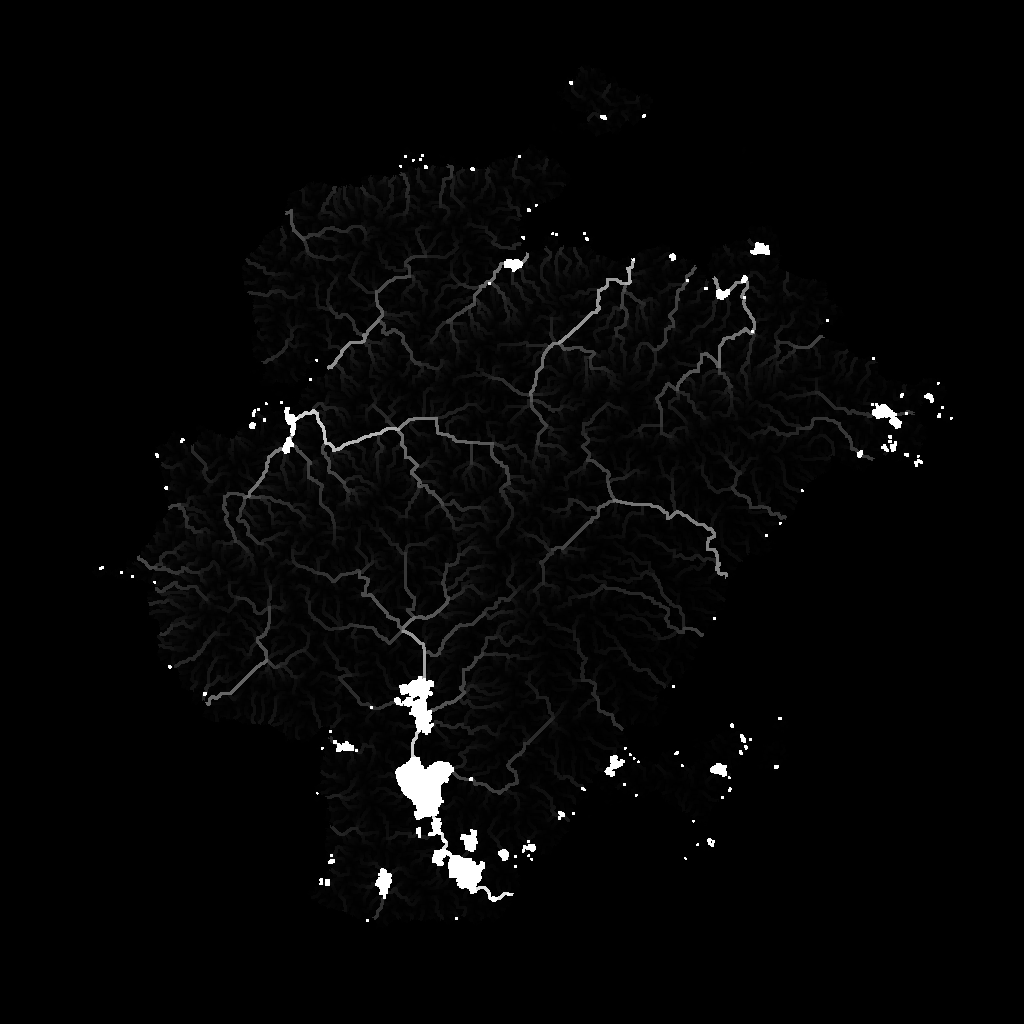
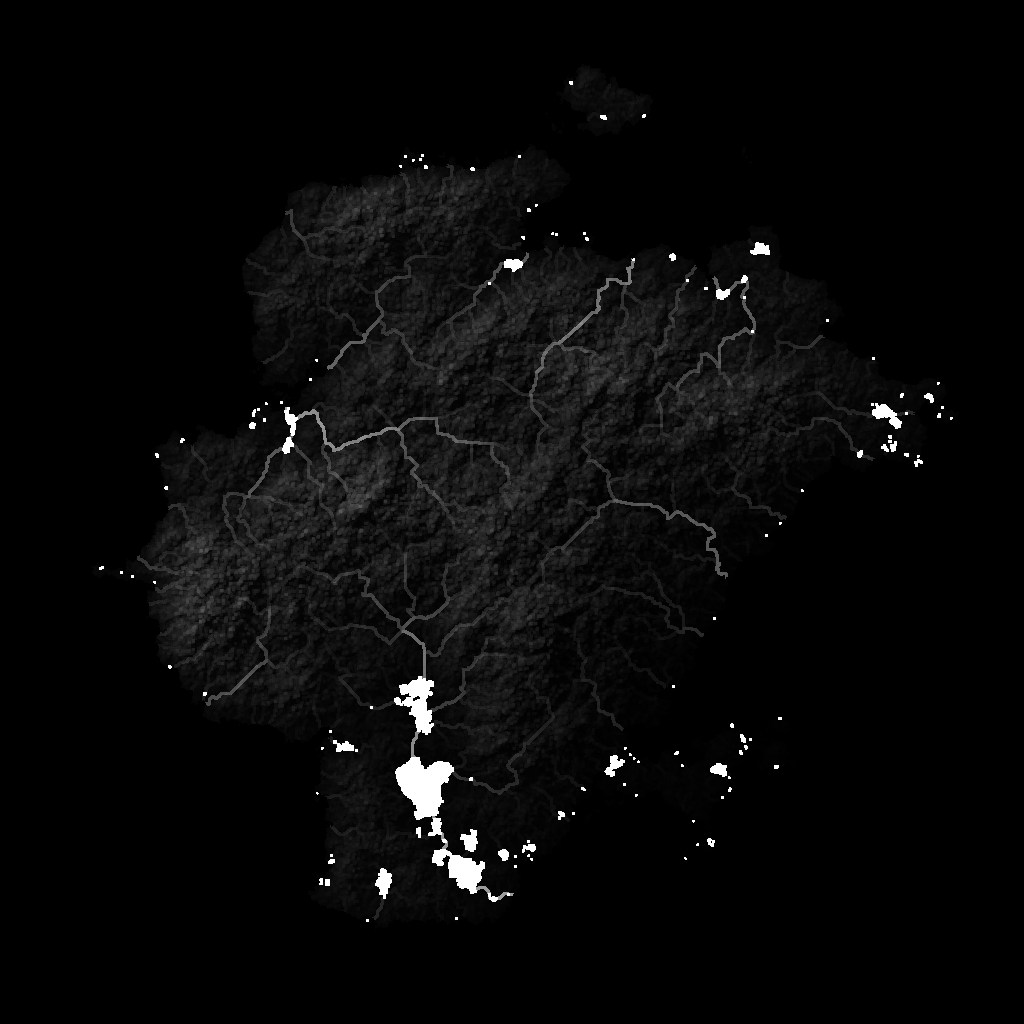
Improve watermap

diff --git a/src/map.rs b/src/map.rs
@@ -90,6 +90,8 @@ pub struct ProvBuilder {
     rain_wind: (f64, f64),
     rain_height: f64,
     rain_fall: f64,
+    water_river: f64,
+    water_rain: f64,
 }
 
 fn get_dist(i: usize, ii: usize, size: usize) -> f64 {
@@ -106,6 +108,7 @@ impl ProvBuilder {
         size: usize, freq: f64, pers: f64, lac: f64, min: f64, max: f64, water_level: f64, water_taper: f64, 
         temp_base: f64, temp_height: f64, temp_latitude: f64,
         rain_wind: (f64, f64), rain_height: f64, rain_fall: f64,
+        water_river: f64, water_rain: f64,
     ) -> Self {
         let noise = PerlinOctave {
             noise: Perlin::new(),
@@ -136,6 +139,8 @@ impl ProvBuilder {
             rain_wind: (rain_wind.0, -rain_wind.1),
             rain_height,
             rain_fall,
+            water_river,
+            water_rain,
         }
     }
 
@@ -432,7 +437,7 @@ impl ProvBuilder {
             if let Some(Water::Lake) = self.waters.get(&i) {
                 self.watermap[i] = 1.;
             } else if self.heightmap[i] > 0. {
-                self.watermap[i] = choices
+                let best_river = choices
                     .iter()
                     .map(|&(ii, _)| {
                         let ii = (i as isize + ii) as usize;
@@ -445,6 +450,22 @@ impl ProvBuilder {
                     })
                     .max_by(|&a, &b| a.partial_cmp(&b).unwrap())
                     .unwrap();
+
+                let best_rain = choices
+                    .iter()
+                    .map(|&(ii, _)| {
+                        let ii = (i as isize + ii) as usize;
+
+                        if let Some(Water::Lake) = self.waters.get(&ii) {
+                            return 1.;
+                        } else {
+                            return self.rainmap[ii];
+                        }
+                    })
+                    .max_by(|&a, &b| a.partial_cmp(&b).unwrap())
+                    .unwrap();
+                
+                self.watermap[i] = (best_river * self.water_river + best_rain * self.water_rain) / (self.water_river + self.water_rain);
             }
         }
     }

diff --git a/src/main.rs b/src/main.rs
@@ -259,7 +259,7 @@ impl Core {
 }
 
 fn main() {
-    let mut map = map::ProvBuilder::new(1024, 0.1, 0.6, 2., 0., 1., 0.1, 0.9, 16., 8., 12., (1., -1.), 1., 0.001,);
+    let mut map = map::ProvBuilder::new(1024, 0.1, 0.6, 2., 0., 1., 0.1, 0.9, 16., 8., 12., (1., -1.), 1., 0.001, 2./3., 1./3.);
 
     map.gen_heightmap();
     map.export(&map.heightmap, "heightmap.png");
